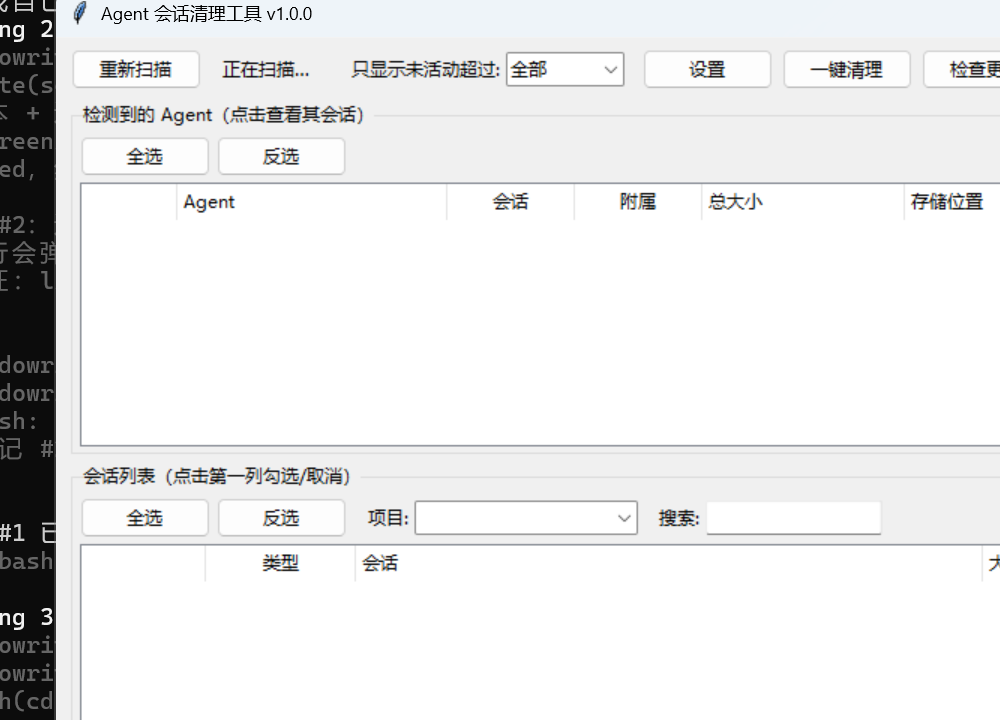
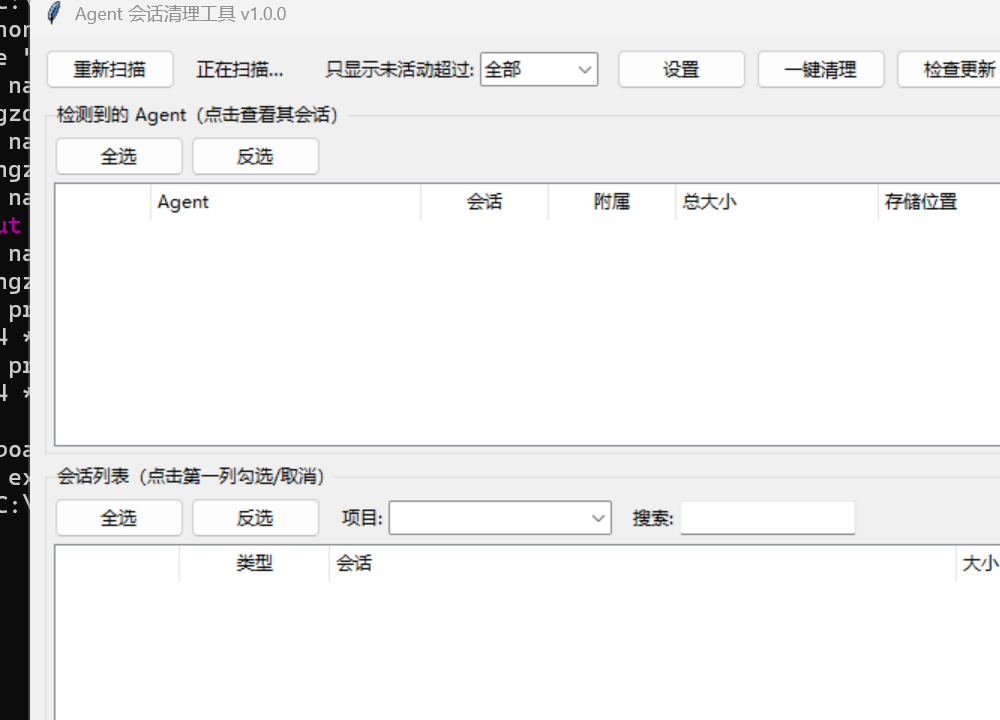
docs: 修复截图遮挡问题并更新主界面截图
- scripts/screenshot.py 截图前窗口置顶聚焦（lift + topmost），
  避免截图混入其他软件内容
- 重新生成 docs/screenshots/main.png

diff --git a/scripts/screenshot.py b/scripts/screenshot.py
@@ -33,12 +33,20 @@ def main() -> None:
     app.update()
     app.update_idletasks()
 
+    # 置顶并聚焦，避免截图被其他窗口遮挡（确保截到的是工具自身）
+    app.lift()
+    app.attributes("-topmost", True)
+    app.focus_force()
+    app.update()
+    time.sleep(0.6)  # 等窗口置顶渲染完成
+
     # 计算主窗口的屏幕坐标并截取
     x = app.winfo_rootx()
     y = app.winfo_rooty()
     w = app.winfo_width()
     h = app.winfo_height()
     img = ImageGrab.grab(bbox=(x, y, x + w, y + h))
+    app.attributes("-topmost", False)  # 取消置顶
 
     OUT.parent.mkdir(parents=True, exist_ok=True)
     img.save(OUT)
